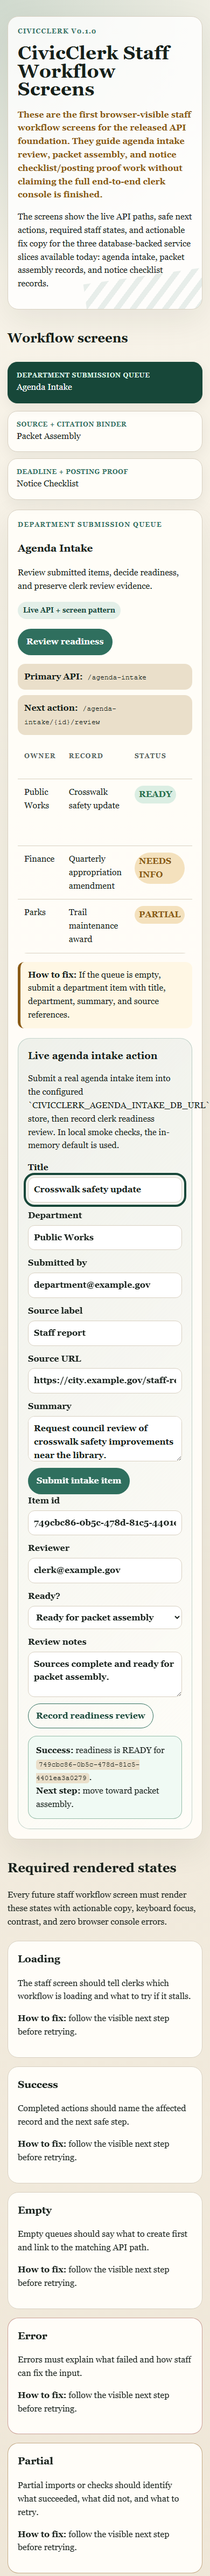
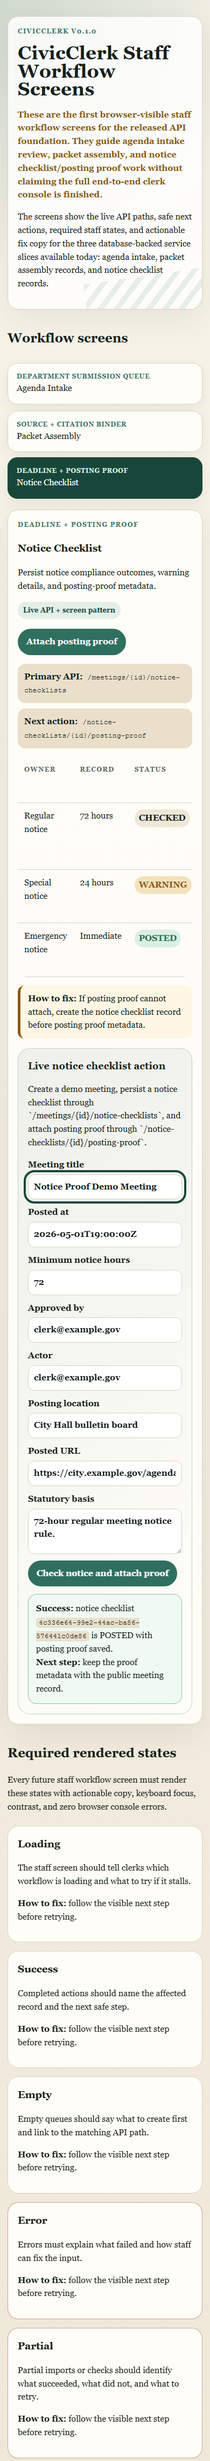
feat(production-depth): add live packet and notice screens

Changed region(s): [[0.0308, 0.0, 0.9846, 0.9956], [0.8923, 0.4045, 0.9231, 0.4356]]

diff --git a/docs/index.html b/docs/index.html
@@ -51,7 +51,7 @@
       <div class="eyebrow">CivicSuite runtime foundation</div>
       <h1>CivicClerk</h1>
       <p>CivicClerk is planned municipal meeting software for agendas, packets, notices, minutes, motions, votes, action items, and public meeting archives.</p>
-      <p class="status">Status: CivicClerk v0.1.0 runtime foundation release with canonical schema, Alembic scaffolding, agenda item lifecycle enforcement, meeting lifecycle enforcement, packet snapshot versioning, database-backed packet assembly records, database-backed notice checklist records, notice compliance enforcement, immutable motion capture, immutable vote capture, action-item capture, citation-gated minutes draft capture, permission-aware public calendar/detail/archive endpoints, prompt YAML evaluation gates, local-first connector imports for Granicus, Legistar, PrimeGov, and NovusAGENDA, browser QA gates, release artifacts, staff workflow screens at <code>/staff</code>, CivicCore v0.3.0-backed records export bundles for packets, and a database-backed agenda intake queue with clerk readiness review. IT staff can smoke-check the FastAPI app, inspect the schema plan, exercise agenda intake, meeting, packet assembly, notice checklist, motion, vote, action item, minutes citation, closed-session archive filtering, source provenance import rules, and packet export manifests/checksums, run prompt evals with outbound network blocked, and verify loading, success, empty, error, partial, keyboard, focus, contrast, and console evidence. The staff agenda intake screen now submits and reviews records through the live API; packet and notice browser form actions are still planned.</p>
+      <p class="status">Status: CivicClerk v0.1.0 runtime foundation release with canonical schema, Alembic scaffolding, agenda item lifecycle enforcement, meeting lifecycle enforcement, packet snapshot versioning, database-backed packet assembly records, database-backed notice checklist records, notice compliance enforcement, immutable motion capture, immutable vote capture, action-item capture, citation-gated minutes draft capture, permission-aware public calendar/detail/archive endpoints, prompt YAML evaluation gates, local-first connector imports for Granicus, Legistar, PrimeGov, and NovusAGENDA, browser QA gates, release artifacts, staff workflow screens at <code>/staff</code>, CivicCore v0.3.0-backed records export bundles for packets, and a database-backed agenda intake queue with clerk readiness review. IT staff can smoke-check the FastAPI app, inspect the schema plan, exercise agenda intake, meeting, packet assembly, notice checklist, motion, vote, action item, minutes citation, closed-session archive filtering, source provenance import rules, and packet export manifests/checksums, run prompt evals with outbound network blocked, and verify loading, success, empty, error, partial, keyboard, focus, contrast, and console evidence. The staff intake, packet assembly, and notice checklist screens now submit their live API actions; remaining workflow form actions are still planned.</p>
     </section>
 
     <section class="grid" aria-label="Product overview">

diff --git a/civicclerk/staff_ui.py b/civicclerk/staff_ui.py
@@ -214,6 +214,10 @@ def render_staff_dashboard() -> str:
     const reviewForm = document.querySelector("#agenda-review-form");
     const output = document.querySelector("#agenda-intake-output");
     const itemIdInput = document.querySelector("#review-item-id");
+    const packetForm = document.querySelector("#packet-assembly-form");
+    const packetOutput = document.querySelector("#packet-assembly-output");
+    const noticeForm = document.querySelector("#notice-checklist-form");
+    const noticeOutput = document.querySelector("#notice-checklist-output");
 
     function setOutput(state, html) {{
       output.dataset.state = state;
@@ -232,6 +236,14 @@ def render_staff_dashboard() -> str:
         throw new Error(`${{detail.message || "Request failed."}} How to fix: ${{detail.fix || "Check the required fields and retry."}}`);
       }}
       return data;
+    }}
+
+    async function createDemoMeeting(title) {{
+      return postJson("/meetings", {{
+        title,
+        meeting_type: "regular",
+        scheduled_start: "2026-05-05T19:00:00Z",
+      }});
     }}
 
     intakeForm?.addEventListener("submit", async (event) => {{
@@ -270,6 +282,56 @@ def render_staff_dashboard() -> str:
         setOutput("success", `<strong>Success:</strong> readiness is ${{item.readiness_status}} for <code>${{item.id}}</code>.<br><strong>Next step:</strong> ${{nextStep}}`);
       }} catch (error) {{
         setOutput("error", `<strong>Error:</strong> ${{error.message}}`);
+      }}
+    }});
+
+    packetForm?.addEventListener("submit", async (event) => {{
+      event.preventDefault();
+      packetOutput.dataset.state = "loading";
+      packetOutput.innerHTML = "<strong>Loading:</strong> creating packet assembly record...";
+      const form = new FormData(packetForm);
+      try {{
+        const meeting = await createDemoMeeting(form.get("meeting_title"));
+        const draft = await postJson(`/meetings/${{meeting.id}}/packet-assemblies`, {{
+          title: form.get("title"),
+          agenda_item_ids: [form.get("agenda_item_id")],
+          actor: form.get("actor"),
+          source_references: [{{ source_id: "source-1", label: form.get("source_label") }}],
+          citations: [{{ source_id: "source-1", quote: form.get("citation") }}],
+        }});
+        const finalized = await postJson(`/packet-assemblies/${{draft.id}}/finalize`, {{ actor: form.get("actor") }});
+        packetOutput.dataset.state = "success";
+        packetOutput.innerHTML = `<strong>Success:</strong> packet assembly <code>${{finalized.id}}</code> is ${{finalized.status}} for meeting <code>${{meeting.id}}</code>.<br><strong>Next step:</strong> export the finalized packet bundle when sources are public-safe.`;
+      }} catch (error) {{
+        packetOutput.dataset.state = "error";
+        packetOutput.innerHTML = `<strong>Error:</strong> ${{error.message}}`;
+      }}
+    }});
+
+    noticeForm?.addEventListener("submit", async (event) => {{
+      event.preventDefault();
+      noticeOutput.dataset.state = "loading";
+      noticeOutput.innerHTML = "<strong>Loading:</strong> checking notice compliance and attaching proof...";
+      const form = new FormData(noticeForm);
+      try {{
+        const meeting = await createDemoMeeting(form.get("meeting_title"));
+        const checklist = await postJson(`/meetings/${{meeting.id}}/notice-checklists`, {{
+          notice_type: "regular",
+          posted_at: form.get("posted_at"),
+          minimum_notice_hours: Number(form.get("minimum_notice_hours")),
+          statutory_basis: form.get("statutory_basis"),
+          approved_by: form.get("approved_by"),
+          actor: form.get("actor"),
+        }});
+        const posted = await postJson(`/notice-checklists/${{checklist.id}}/posting-proof`, {{
+          actor: form.get("actor"),
+          posting_proof: {{ location: form.get("location"), posted_url: form.get("posted_url") }},
+        }});
+        noticeOutput.dataset.state = "success";
+        noticeOutput.innerHTML = `<strong>Success:</strong> notice checklist <code>${{posted.id}}</code> is ${{posted.status}} with posting proof saved.<br><strong>Next step:</strong> keep the proof metadata with the public meeting record.`;
+      }} catch (error) {{
+        noticeOutput.dataset.state = "error";
+        noticeOutput.innerHTML = `<strong>Error:</strong> ${{error.message}}`;
       }}
     }});
   </script>
@@ -316,9 +378,19 @@ def _render_screen_card(card: dict, active: bool) -> str:
           <tbody>{rows}</tbody>
         </table>
         <p class="fix-path"><strong>How to fix:</strong> {card["fix"]}</p>
-        {_render_live_intake_region() if card["id"] == "intake" else ""}
+        {_render_live_region(card["id"])}
       </article>
     """
+
+
+def _render_live_region(card_id: str) -> str:
+    if card_id == "intake":
+        return _render_live_intake_region()
+    if card_id == "packet":
+        return _render_live_packet_region()
+    if card_id == "notice":
+        return _render_live_notice_region()
+    return ""
 
 
 def _render_live_intake_region() -> str:
@@ -376,6 +448,88 @@ def _render_live_intake_region() -> str:
           <div id="agenda-intake-output" class="live-output" data-state="empty" role="status" aria-live="polite">
             <strong>Empty:</strong> no live agenda intake action has been submitted in this browser session.
             <br><strong>How to fix:</strong> submit the intake form above, then review the generated item id.
+          </div>
+        </section>
+    """
+
+
+def _render_live_packet_region() -> str:
+    return """
+        <section class="live-action" aria-labelledby="live-packet-heading">
+          <h4 id="live-packet-heading">Live packet assembly action</h4>
+          <p>Create a demo meeting, create a packet assembly record through `/meetings/{id}/packet-assemblies`, and finalize it through `/packet-assemblies/{id}/finalize`.</p>
+          <form id="packet-assembly-form">
+            <div class="form-grid">
+              <label>Meeting title
+                <input name="meeting_title" required value="Packet Assembly Demo Meeting">
+              </label>
+              <label>Packet title
+                <input name="title" required value="Council packet v1">
+              </label>
+              <label>Agenda item id
+                <input name="agenda_item_id" required value="agenda-item-demo">
+              </label>
+              <label>Actor
+                <input name="actor" required value="clerk@example.gov">
+              </label>
+              <label>Source label
+                <input name="source_label" required value="Staff report">
+              </label>
+              <label>Citation
+                <input name="citation" required value="Staff report page 2">
+              </label>
+            </div>
+            <div class="live-actions">
+              <button class="cta" type="submit">Create and finalize packet</button>
+            </div>
+          </form>
+          <div id="packet-assembly-output" class="live-output" data-state="empty" role="status" aria-live="polite">
+            <strong>Empty:</strong> no live packet assembly action has run in this browser session.
+            <br><strong>How to fix:</strong> submit the packet form above; the screen will create a demo meeting first.
+          </div>
+        </section>
+    """
+
+
+def _render_live_notice_region() -> str:
+    return """
+        <section class="live-action" aria-labelledby="live-notice-heading">
+          <h4 id="live-notice-heading">Live notice checklist action</h4>
+          <p>Create a demo meeting, persist a notice checklist through `/meetings/{id}/notice-checklists`, and attach posting proof through `/notice-checklists/{id}/posting-proof`.</p>
+          <form id="notice-checklist-form">
+            <div class="form-grid">
+              <label>Meeting title
+                <input name="meeting_title" required value="Notice Proof Demo Meeting">
+              </label>
+              <label>Posted at
+                <input name="posted_at" required value="2026-05-01T19:00:00Z">
+              </label>
+              <label>Minimum notice hours
+                <input name="minimum_notice_hours" required value="72">
+              </label>
+              <label>Approved by
+                <input name="approved_by" required value="clerk@example.gov">
+              </label>
+              <label>Actor
+                <input name="actor" required value="clerk@example.gov">
+              </label>
+              <label>Posting location
+                <input name="location" required value="City Hall bulletin board">
+              </label>
+              <label class="span-2">Posted URL
+                <input name="posted_url" required value="https://city.example.gov/agendas/demo">
+              </label>
+              <label class="span-2">Statutory basis
+                <textarea name="statutory_basis" required>72-hour regular meeting notice rule.</textarea>
+              </label>
+            </div>
+            <div class="live-actions">
+              <button class="cta" type="submit">Check notice and attach proof</button>
+            </div>
+          </form>
+          <div id="notice-checklist-output" class="live-output" data-state="empty" role="status" aria-live="polite">
+            <strong>Empty:</strong> no live notice checklist action has run in this browser session.
+            <br><strong>How to fix:</strong> submit the notice form above with a timezone-aware posted-at timestamp.
           </div>
         </section>
     """

diff --git a/civicclerk/main.py b/civicclerk/main.py
@@ -223,10 +223,12 @@ async def root() -> dict[str, str]:
             "work with visible rendered states and actionable next steps; "
             "the staff agenda intake screen can now submit items and record readiness review "
             "through the live API; "
+            "packet assembly and notice checklist staff screens can now create/finalize packet "
+            "records and persist posting proof through live API actions; "
             "CivicClerk remains versioned as v0.1.0 while production-depth service slices continue; "
-            "full live clerk-console form submission for every workflow is not implemented yet."
+            "live clerk-console form submission for the remaining workflows is not implemented yet."
         ),
-        "next_step": "Production-depth live packet and notice form actions plus meeting persistence",
+        "next_step": "Production-depth meeting persistence and remaining live clerk-console actions",
     }
 
 

diff --git a/tests/test_milestone_1_runtime_foundation.py b/tests/test_milestone_1_runtime_foundation.py
@@ -101,7 +101,8 @@ async def test_root_endpoint_explains_current_user_experience() -> None:
     assert "notice checklist records" in payload["message"]
     assert "staff workflow screens" in payload["message"]
     assert "staff agenda intake screen can now submit items" in payload["message"]
-    assert payload["next_step"] == "Production-depth live packet and notice form actions plus meeting persistence"
+    assert "persist posting proof through live API actions" in payload["message"]
+    assert payload["next_step"] == "Production-depth meeting persistence and remaining live clerk-console actions"
 
 
 @pytest.mark.asyncio

diff --git a/tests/test_milestone_13_staff_workflow_ui.py b/tests/test_milestone_13_staff_workflow_ui.py
@@ -40,6 +40,12 @@ async def test_staff_ui_endpoint_renders_accessible_workflow_foundation() -> Non
     assert 'id="agenda-intake-output"' in html
     assert "Submit intake item" in html
     assert "Record readiness review" in html
+    assert "Live packet assembly action" in html
+    assert 'id="packet-assembly-form"' in html
+    assert "Create and finalize packet" in html
+    assert "Live notice checklist action" in html
+    assert 'id="notice-checklist-form"' in html
+    assert "Check notice and attach proof" in html
 
     for workflow in [
         "Agenda Intake",

diff --git a/README.md b/README.md
@@ -24,7 +24,7 @@ AI may draft or extract. Humans approve every consequential action.
 
 ## What exists today
 
-CivicClerk v0.1.0 ships the runtime and schema foundation plus agenda item lifecycle, meeting lifecycle, packet snapshot, notice compliance, immutable motion capture, immutable vote capture, action-item capture, citation-gated minutes draft capture, permission-aware public calendar/detail/archive endpoints, a prompt YAML library with an offline evaluation harness, local-first connector imports for Granicus, Legistar, PrimeGov, and NovusAGENDA, accessibility/browser QA gates, CivicCore v0.3.0-backed records export bundles, database-backed agenda intake readiness, database-backed packet assembly records, database-backed notice checklist/posting-proof records, and first staff workflow screens for intake, packet assembly, and notice checklist work. The agenda intake screen now submits items and records readiness review through the live API; full live clerk-console form submission for every workflow is not implemented yet.
+CivicClerk v0.1.0 ships the runtime and schema foundation plus agenda item lifecycle, meeting lifecycle, packet snapshot, notice compliance, immutable motion capture, immutable vote capture, action-item capture, citation-gated minutes draft capture, permission-aware public calendar/detail/archive endpoints, a prompt YAML library with an offline evaluation harness, local-first connector imports for Granicus, Legistar, PrimeGov, and NovusAGENDA, accessibility/browser QA gates, CivicCore v0.3.0-backed records export bundles, database-backed agenda intake readiness, database-backed packet assembly records, database-backed notice checklist/posting-proof records, and first staff workflow screens for intake, packet assembly, and notice checklist work. The staff screens now submit agenda intake, record readiness review, create/finalize packet assembly records, persist notice checklist records, and attach posting proof through the live API; live clerk-console form submission for the remaining workflows is not implemented yet.
 
 Shipped in this foundation:
 
@@ -40,6 +40,8 @@ Shipped in this foundation:
 - `/health` endpoint for IT staff
 - `/staff` staff workflow screens for agenda intake, packet assembly, and notice checklist/posting-proof work
 - live `/staff` agenda intake submission and clerk readiness-review form actions backed by `/agenda-intake`
+- live `/staff` packet assembly create/finalize form actions backed by `/meetings/{id}/packet-assemblies`
+- live `/staff` notice checklist and posting-proof form actions backed by `/meetings/{id}/notice-checklists`
 - database-backed agenda intake queue with clerk readiness review state and
   Alembic migration `civicclerk_0002_intake_queue`
 - `/agenda-intake` submit/list/review endpoints with audit events for consequential review actions
@@ -89,12 +91,12 @@ Not shipped yet:
 - public portal
 - database-backed agenda item persistence beyond the current runtime slice
 - database-backed meeting lifecycle persistence beyond the current runtime slice
-- live browser form submission from `/staff` into packet assembly, notice checklist, and remaining backing service APIs
+- live browser form submission from `/staff` into the remaining backing service APIs for motions, votes, actions, minutes, archive, and connector imports
 - browser workflow screens for packet export creation and review
 
 ## New user experience today
 
-A new user can inspect and run the foundation, open first staff workflow screens at `/staff`, submit agenda intake items into a database-backed queue from the browser, record clerk readiness review from the browser, create draft agenda items and meetings through the API, create and finalize packet assembly records with sources and citations, persist notice checklist/posting-proof records, and generate a records-ready packet export bundle with manifest, checksums, provenance, and audit evidence. They cannot use CivicClerk for end-to-end meeting work yet. The correct next experience is:
+A new user can inspect and run the foundation, open first staff workflow screens at `/staff`, submit agenda intake items into a database-backed queue from the browser, record clerk readiness review from the browser, create/finalize packet assembly records from the browser, persist notice checklist/posting-proof records from the browser, create draft agenda items and meetings through the API, and generate a records-ready packet export bundle with manifest, checksums, provenance, and audit evidence. They cannot use CivicClerk for end-to-end meeting work yet. The correct next experience is:
 
 1. Read this README.
 2. Read `USER-MANUAL.md`.
@@ -119,7 +121,7 @@ CivicClerk follows the CivicSuite pattern:
 
 The foundation is intentionally thin. Canonical schema, Alembic scaffolding, agenda item lifecycle enforcement, meeting lifecycle enforcement, packet snapshot versioning, packet assembly records, notice checklist records, notice compliance enforcement, immutable motion capture, immutable vote capture, action-item capture, citation-gated minutes draft capture, permission-aware public archive endpoints, prompt YAML/evaluation gates, local-first connector import normalization, browser QA gates, CivicClerk v0.1.0 release artifacts, and CivicCore v0.3.0 packet export primitives are present. Minutes drafts require sentence-level citations, YAML prompt-version provenance, and human approval before acceptance, and they are never auto-adopted or auto-posted. Anonymous public archive endpoints do not reveal closed-session content in response bodies, counts, suggestions, or error messages. Connector imports record source provenance and do not require outbound network calls in the default local profile. Public packet exports block closed-session/restricted sources and include manifest, checksum, provenance, and audit evidence. Packet assembly records now persist source references, citations, linked packet snapshot ids, and durable audit hashes. Notice checklist records persist compliance outcomes, warnings, posting proof, and durable audit hashes. Browser QA now checks loading, success, empty, error, and partial states plus keyboard, focus, contrast, and console evidence. CivicClerk v0.1.0 now pairs with `civiccore==0.3.0`.
 
-The staff experience at `/staff` now includes first workflow screens for agenda intake, packet assembly, and notice checklist/posting-proof work. It is intentionally honest: the agenda intake screen can submit and review real intake items through the live API, while packet assembly and notice checklist screens still show live API paths, sample work queues, safe next actions, and actionable fix copy until their browser form actions land.
+The staff experience at `/staff` now includes first workflow screens for agenda intake, packet assembly, and notice checklist/posting-proof work. It is intentionally honest: these three screens can submit their corresponding live API actions, while the remaining workflow areas are still API/service foundations until their browser form actions land.
 
 ## Verification
 

diff --git a/PRODUCTION_DEPTH_LIVE_PACKET_NOTICE_SCREENS_DONE.md b/PRODUCTION_DEPTH_LIVE_PACKET_NOTICE_SCREENS_DONE.md
@@ -1,0 +1,37 @@
+# Production Depth Live Packet And Notice Screens Slice
+
+Status: ready for audit
+Branch: `production-depth/live-packet-notice-screens`
+
+## Shipped
+
+- `/staff` packet assembly screen now creates a demo meeting, creates a packet assembly record, and finalizes it through the live API.
+- `/staff` notice checklist screen now creates a demo meeting, persists a notice checklist record, and attaches posting proof through the live API.
+- `/staff` agenda intake, packet assembly, and notice checklist screens all have browser-verified live API actions.
+- Root endpoint, README, text README, user manual, text manual, changelog, and landing page now point the next slice toward meeting persistence and remaining live clerk-console actions.
+- Browser QA evidence proves desktop and mobile live intake, packet, and notice workflows, console output, overflow, and focus state.
+
+## Not Shipped
+
+- Database-backed meeting lifecycle persistence.
+- Live browser form submission for motions, votes, actions, minutes, public archive, and connector import workflows.
+- React/nginx production shell.
+- Release version bump or package release.
+
+## Verification Snapshot
+
+- `python -m pytest --collect-only -q` -> 379 tests collected
+- `python -m pytest -q` -> 379 passed
+- `bash scripts/verify-docs.sh` -> `VERIFY-DOCS: PASSED`
+- `python scripts/check-civiccore-placeholder-imports.py` -> `PLACEHOLDER-IMPORT-CHECK: PASSED (24 source files scanned)`
+- `python -m ruff check .` -> `All checks passed!`
+- `bash scripts/verify-release.sh` -> `VERIFY-RELEASE: PASSED` (374 release-gate tests passed; milestone 12 release tests excluded by script)
+
+## Browser QA Evidence
+
+- Desktop screenshot: `docs/screenshots/milestone13-staff-ui-desktop.png`
+- Mobile screenshot: `docs/screenshots/milestone13-staff-ui-mobile.png`
+- Desktop live-action screenshot: `docs/browser-qa-production-depth-live-packet-notice-screens-desktop.png`
+- Mobile live-action screenshot: `docs/browser-qa-production-depth-live-packet-notice-screens-mobile.png`
+- Summary: `docs/browser-qa-production-depth-live-packet-notice-screens-summary.md`
+- Expected checks: live agenda intake submit/review, live packet create/finalize, live notice checklist/posting proof, visible success output, actionable fix copy, desktop and mobile viewports, no console messages, no horizontal document overflow, visible focus outline.

diff --git a/USER-MANUAL.md b/USER-MANUAL.md
@@ -52,8 +52,10 @@ agenda intake queue with clerk readiness review, and database-backed packet
 assembly records with source/citation metadata, and database-backed notice
 checklist/posting-proof records.
 The `/staff` page now provides first staff workflow screens for agenda intake,
-packet assembly, and notice checklist/posting-proof work. The agenda intake
-screen can submit and review intake items through the live API. IT
+packet assembly, and notice checklist/posting-proof work. These screens can
+submit intake items, record readiness review, create/finalize packet assembly
+records, persist notice checklist records, and attach posting proof through
+the live API. IT
 staff can import and serve `civicclerk.main:app`, call `/`, call `/health`,
 open `/staff`, create draft agenda items and meetings, version packet snapshots, test
 allowed/rejected notice compliance postings, capture motions, capture
@@ -65,9 +67,10 @@ preserving source provenance. IT staff can now generate records-ready packet
 export bundles with CivicCore manifests, checksums, provenance, and
 hash-chained audit evidence. Clerks can submit/list/review `/agenda-intake`
 items with readiness status stored in the configured intake database. The
-current `/staff` page submits and reviews agenda intake records directly;
-packet assembly and notice checklist screens still show screen-level workflow
-guidance and sample queues until their live browser form actions land.
+current `/staff` page submits and reviews agenda intake records directly,
+creates/finalizes packet assembly records, and persists notice checklist
+posting-proof records; remaining workflow areas still show screen-level
+guidance until their live browser form actions land.
 
 ## Part 2: IT and Technical Overview
 

diff --git a/docs/browser-qa-production-depth-live-packet-notice-screens-summary.md b/docs/browser-qa-production-depth-live-packet-notice-screens-summary.md
@@ -1,0 +1,24 @@
+# Production Depth Live Packet Notice Screens Browser QA
+
+Generated: 2026-04-28
+
+## Checks
+
+- Surface: staff dashboard (`/staff`).
+- Viewports: desktop 1440x1300 and mobile 390x1500.
+- Interactions: submitted live agenda intake, recorded readiness review, created/finalized packet assembly, checked notice, attached posting proof.
+- Required copy: live packet assembly action, live notice checklist action, success states, actionable fix copy.
+- Console errors: none.
+- Horizontal overflow: none.
+- Keyboard focus: visible focus outline checked.
+
+## Evidence
+
+| Viewport | Screenshot | Console | Overflow | Live actions | Focus |
+|---|---|---|---|---|---|
+| desktop | C:\Users\scott\OneDrive\Desktop\Claude\civicclerk\docs\screenshots\milestone13-staff-ui-desktop.png and C:\Users\scott\OneDrive\Desktop\Claude\civicclerk\docs\browser-qa-production-depth-live-packet-notice-screens-desktop.png | 0 messages | no | intake submit/review + packet finalize + notice proof | solid 4px |
+| mobile | C:\Users\scott\OneDrive\Desktop\Claude\civicclerk\docs\screenshots\milestone13-staff-ui-mobile.png and C:\Users\scott\OneDrive\Desktop\Claude\civicclerk\docs\browser-qa-production-depth-live-packet-notice-screens-mobile.png | 0 messages | no | intake submit/review + packet finalize + notice proof | solid 4px |
+
+## Result
+
+PASS: staff screens submitted all three live staff workflows on desktop and mobile with zero console errors, no horizontal overflow, required copy present, and focus evidence captured.

diff --git a/CHANGELOG.md b/CHANGELOG.md
@@ -27,6 +27,9 @@ All notable changes to CivicClerk are documented here.
   workflow state examples and actionable fix copy.
 - Live `/staff` agenda intake form actions that submit department intake
   items and record clerk readiness review through the existing API.
+- Live `/staff` packet assembly and notice checklist form actions that create
+  demo meetings, create/finalize packet assembly records, persist notice
+  checklist records, and attach posting proof through the existing APIs.
 - Production-depth packet export bundle slice using CivicCore v0.3.0
   `civiccore.exports`, `civiccore.provenance`, and `civiccore.audit`
   primitives.
@@ -38,7 +41,7 @@ All notable changes to CivicClerk are documented here.
 - Safe packet export path handling: API callers provide a relative
   `bundle_name` under `CIVICCLERK_EXPORT_ROOT`, not an arbitrary filesystem
   path.
-- Milestone 13 staff workflow UI at `/staff`, upgraded from a workflow map into first workflow screens for the three database-backed service slices; agenda intake now has live browser form actions while packet and notice screens remain guided API screens.
+- Milestone 13 staff workflow UI at `/staff`, upgraded from a workflow map into first workflow screens for the three database-backed service slices with live browser form actions for agenda intake, packet assembly, and notice checklist/posting-proof workflows.
 
 ### Changed
 - CivicClerk now pins `civiccore==0.3.0` for shared audit, provenance,
